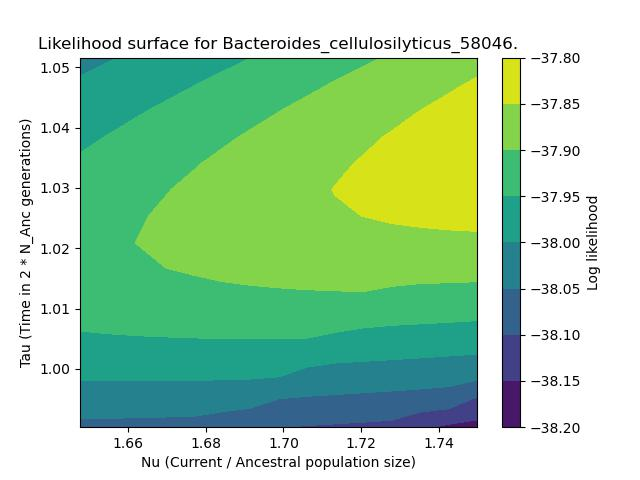
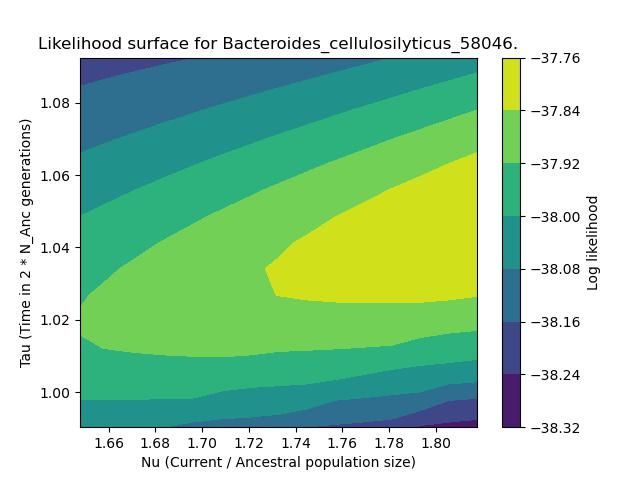
B. cell

diff --git a/Scripts/plot_likelihood.py b/Scripts/plot_likelihood.py
@@ -466,9 +466,9 @@ class PlotLikelihood():
 
                 npts = 15
 
-                x_range = numpy.linspace(x * 0.97, x * 1.03, npts)
+                x_range = numpy.linspace(x * 0.97, x * 1.07, npts)
                 # x_range = numpy.linspace(1.6, 2.4, npts)
-                y_range = numpy.linspace(y * 0.97, y * 1.03, npts)
+                y_range = numpy.linspace(y * 0.97, y * 1.07, npts)
                 # y_range = numpy.linspace(0.98, 1.04, npts)
 
                 X, Y = numpy.meshgrid(x_range, y_range)
